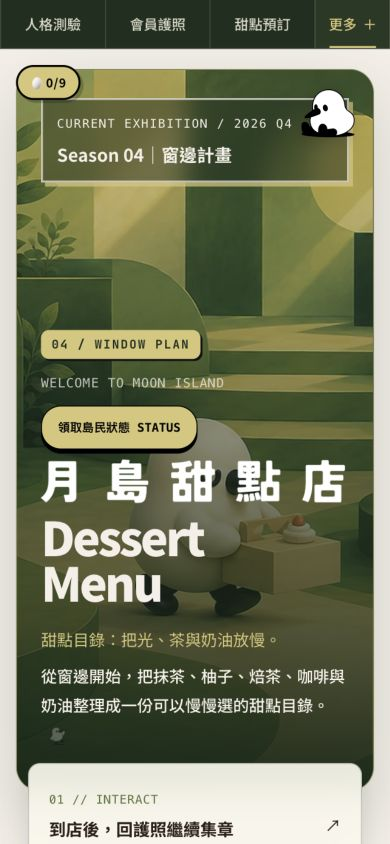
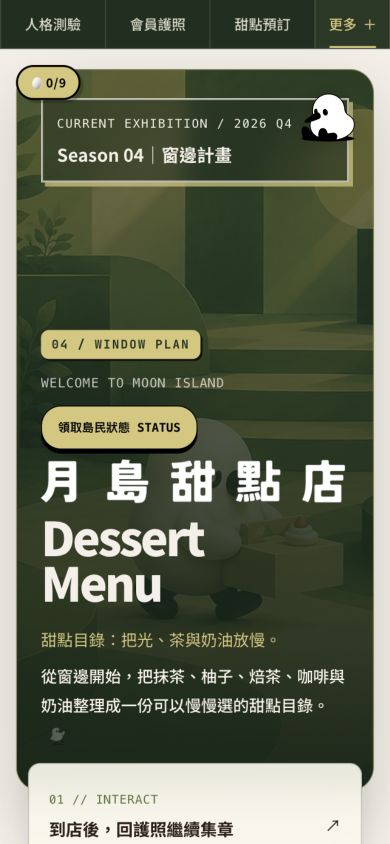
fix(map): 讓手機更多入口支援文字放大換行

diff --git a/styles/kiwimu-universe.css b/styles/kiwimu-universe.css
@@ -140,7 +140,7 @@
 .ku-universe-rail__link:hover, .ku-universe-rail__more:hover { background: rgba(245,240,232,.05); color: var(--ku-nav-paper); }
 .ku-universe-rail__link.is-current, .ku-universe-rail__more.is-current { color: var(--ku-nav-gold); background: rgba(215,198,120,.06); }
 .ku-universe-rail__link.is-current::after, .ku-universe-rail__more.is-current::after { content: ''; position: absolute; bottom: 0; left: 14px; right: 14px; height: 2px; background: var(--ku-nav-gold); }
-.ku-universe-rail__more { display: none; gap: 6px; }
+.ku-universe-rail__more { display: none; gap: 6px; flex-wrap: wrap; }
 .ku-universe-rail__showcase { gap: 6px; }
 .ku-universe-rail__more-panel {
   position: absolute; top: calc(100% + 8px); right: 12px;
